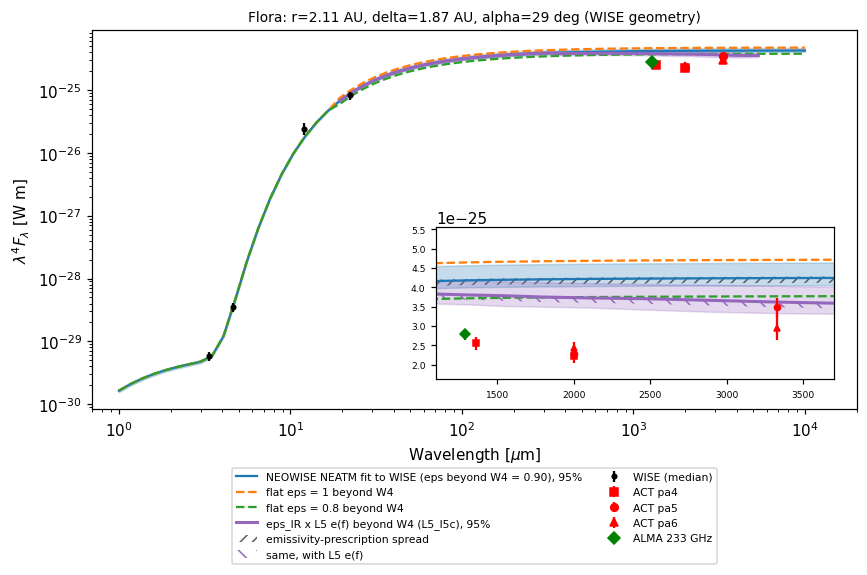
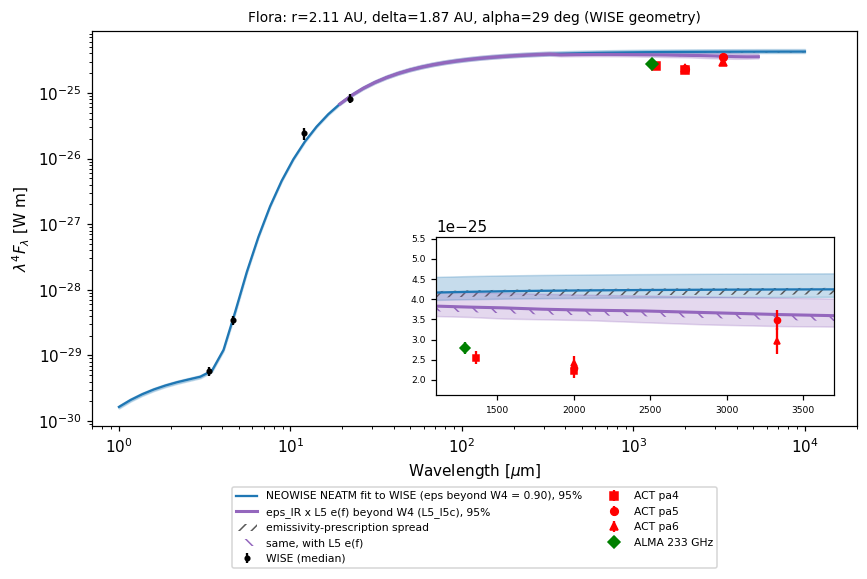
SED: flat-eps lines only drawn with --show-flat

diff --git a/scripts/act_vs_neatm.py b/scripts/act_vs_neatm.py
@@ -359,7 +359,9 @@ def sedFigure(
         label=("NEOWISE NEATM fit to WISE" if neowise else "NEATM fit to WISE")
         + f" (eps beyond W4 = {baseTail:.2f}), 95%",
     )
-    flats = [x for x in a.flat_eps if abs(x - baseTail) > 1e-9]
+    flats = (  # dashed flat-eps lines beyond W4 are only drawn on request
+        [x for x in a.flat_eps if abs(x - baseTail) > 1e-9] if a.show_flat else []
+    )
     for i, x in enumerate(flats, start=1):
         ax.plot(
             lam * 1e6,
@@ -562,6 +564,11 @@ def main() -> None:
         default="multiplicative",
         help="multiplicative: eps_mm(nu) = eps_IR x e(nu) (e(nu) distorts the IR emissivity continued beyond W4); "
         "absolute: eps_mm(nu) = e(nu)",
+    )
+    ap.add_argument(
+        "--show-flat",
+        action="store_true",
+        help="also draw dashed flat-emissivity lines (--flat-eps) beyond W4 on the lambda^4 F_lambda SED",
     )
     ap.add_argument(
         "--no-systematics",
